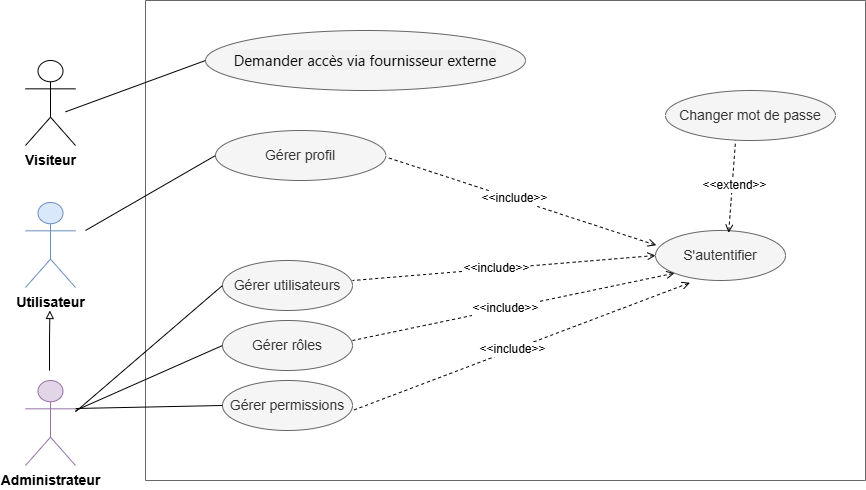
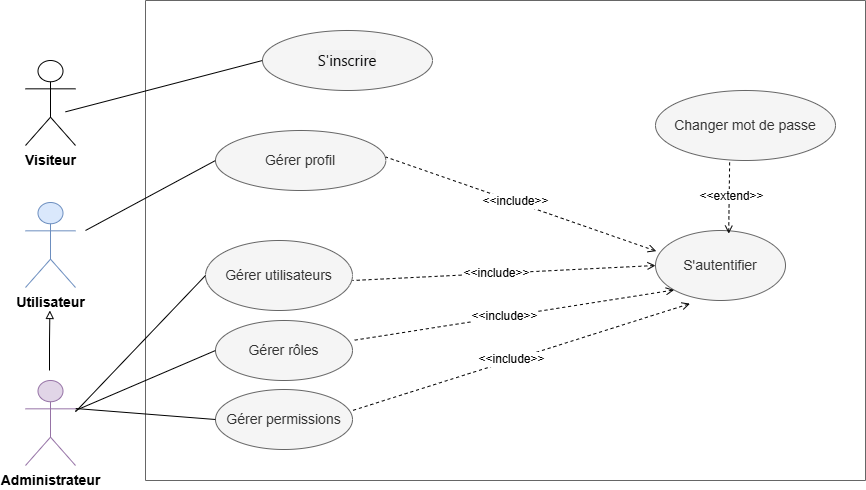
v eya

diff --git a/tex/chapitre3.tex b/tex/chapitre3.tex
@@ -80,15 +80,15 @@ La figure ci-dessous présente la description textuelle du cas d'utilisation « 
 \hline
 \textbf{Scénarios alternatifs} &
 \begin{itemize}[nosep,leftmargin=0.6cm,topsep=0pt,itemsep=1pt, label=$\bullet$]
-\item  L'utilisateur choisit l'onglet OAuth, lance l'authentification. Si le compte existe, il est authentifié sans mot de passe.
 \item  Si l'adresse e-mail ou le mot de passe est invalide, le système affiche une erreur. L'utilisateur corrige ses identifiants et retente la connexion.
+\item La période de verrouillage de 1 minute est écoulée. L'utilisateur retente la connexion. Le système constate que le déverrouillage est automatique, réactive le compte et autorise une nouvelle tentative.
 \end{itemize} \\
 \hline
 \textbf{Scénarios d'exception} &
 \begin{itemize}[nosep,leftmargin=0.6cm,topsep=0pt,itemsep=1pt, label=$\bullet$]
 \item  Après 3 tentatives échouées, le système affiche \texttt{401 Unauthorized} et le compte est verrouillé strictement pendant 1 minute. Aucune action de l'utilisateur ne permet de forcer l'entrée.
 \item  Le compte a été révoqué. Le système bloque impérativement la connexion.
-\item  La demande d'inscription OAuth est en EN ATTENTE. L'accès est bloqué tant qu'un administrateur n'a pas validé.
+\item  La demande d'inscription OAuth est en « en attente ». L'accès est bloqué tant qu'un administrateur n'a pas validé.
 \end{itemize} \\
 \hline
 \end{longtable}
@@ -99,7 +99,7 @@ La figure ci-dessous présente la description textuelle du cas d'utilisation « 
 \vspace{-0.3cm}
 
 
-\subsection{Description textuelle de cas d'utilisation « Changer mot de passe »}
+\subsection{Description textuelle du cas d'utilisation « Changer mot de passe »}
 La figure ci-dessous présente la description textuelle du cas d'utilisation « Changer le mot de passe » :
 
 \footnotesize
@@ -155,7 +155,7 @@ La figure ci-dessous présente la description textuelle du cas d'utilisation « 
 Dans cette partie, nous allons présenter les cas d'utilisation raffinés relatifs à la demande d'accès via fournisseur externe afin de comprendre les différentes étapes du processus d'inscription et d'authentification.
 
 \subsubsection{Raffinement de cas d'utilisation « S'inscrire »}
-Au cours de cette partie, nous allons analyser les sous-cas d'utilisation pour le processus d'authentification OAuth :
+Au cours de cette partie, nous allons analyser les sous-cas d'utilisation pour le processus l'inscription.
 
 \begin{figure}[htbp]
         \centering
@@ -164,7 +164,7 @@ Au cours de cette partie, nous allons analyser les sous-cas d'utilisation pour l
         \label{fig:oauth_refinement}
 \end{figure}
 
-\subsubsection{Description textuelle de cas d'utilisation « Soumettre demande d'inscription »}
+\subsubsection{Description textuelle du cas d'utilisation « Demander inscription »}
 
 \footnotesize
 \renewcommand{\arraystretch}{0.95}
@@ -184,15 +184,18 @@ Au cours de cette partie, nous allons analyser les sous-cas d'utilisation pour l
 \hline
 \textbf{Préconditions} & Le visiteur n'a pas de compte existant dans le système et se trouve sur la page d'authentification. \\
 \hline
-\textbf{Postconditions} & La demande d'inscription est créée (\textbf{EN\_ATTENTE}), ou le visiteur est connecté s'il possède déjà un accès. \\
+\textbf{Postconditions} & La demande d'inscription est créée (« en attente »), ou le visiteur est connecté s'il possède déjà un accès. \\
 \hline
 \textbf{Scénario nominal} &
 \begin{minipage}[t]{\linewidth}\raggedright
 \begin{enumerate}[label=\arabic*., leftmargin=0.6cm, nosep, itemsep=1pt]
-\item Le visiteur choisit son rôle sur la page de connexion, puis sélectionne un fournisseur externe (Google/GitHub).
+\item Le système affiche le formulaire de connexion avec les onglets \textit{Connexion} et \textit{Inscription OAuth}.
+\item L'utilisateur choisit l'onglet \textit{Inscription OAuth}.
+\item Le visiteur choisit son rôle sur la page de connexion.
+\item Le visiteur sélectionne un fournisseur externe (Google/GitHub).
 \item Le visiteur est redirigé vers le fournisseur pour s'authentifier et autoriser l'accès à son profil.
 \item De retour sur l'application, le système réceptionne les données OAuth et vérifie l'inexistence d'un compte actif.
-\item Le système crée la demande d'inscription avec le statut \textit{EN ATTENTE}.
+\item Le système crée la demande d'inscription avec le statut \textit{en attente}.
 \item Le système notifie l'équipe d'administration (via e-mail et notification interne).
 \item Le système confirme au visiteur par e-mail que la demande est en cours d'examen et affiche l'interface d'attente.
 \end{enumerate}
@@ -216,61 +219,6 @@ Au cours de cette partie, nous allons analyser les sous-cas d'utilisation pour l
 }
 \normalsize
 \vspace{-0.3cm}
-
-
-\subsubsection{Description textuelle de cas d'utilisation « Valider demande »}
-
-\footnotesize
-\renewcommand{\arraystretch}{0.95}
-\begin{longtable}{|P{3.5cm}|P{10.5cm}|}
-\hline
-\endfirsthead
-\hline
-\endhead
-\hline
-\endfoot
-\hline
-\endlastfoot
-\textbf{Nom du cas d'utilisation} & Valider demande \\
-\hline
-\textbf{Acteurs} & Administrateur \\
-\hline
-\textbf{Préconditions} & L'administrateur est authentifié et possède la permission de traiter les demandes d'inscription \\
-\hline
-\textbf{Postconditions} & Le compte utilisateur est créé et activé, la demande est marquée \textit{APPROUVEE}, et l'utilisateur est notifié \\
-\hline
-\textbf{Scénario principal} &
-\begin{minipage}[t]{\linewidth}\raggedright
-\begin{enumerate}[label=\arabic*., leftmargin=0.6cm, nosep, itemsep=1pt]
-\item L'administrateur accède au module de gestion des demandes d'inscription.
-\item Le système affiche la liste des demandes en attente.
-\item L'administrateur sélectionne une demande à traiter.
-\item Le système affiche les informations du demandeur récupérées via OAuth.
-\item L'administrateur clique sur « Approuver ».
-\item Le système crée le compte utilisateur à partir des informations de la demande.
-\item Le système attribue le rôle correspondant à l'utilisateur.
-\item Le système marque la demande comme \textit{APPROUVEE}.
-\item Le système envoie un e-mail de confirmation à l'utilisateur.
-\item Le système affiche un message de succès à l'administrateur.
-\end{enumerate}
-\end{minipage} \\
-\hline
-\textbf{Scénarios alternatifs} &
-\begin{itemize}[nosep,leftmargin=0.6cm,topsep=0pt,itemsep=1pt, label=$\bullet$]
-\item  L'administrateur choisit de refuser l'accès. Il saisit un motif de refus qui remplace l'approbation, la demande est alors rejetée.
-\item  Le système détecte qu'il manque un champ essentiel. L'administrateur saisit l'information manquante et valide à nouveau la demande.
-\end{itemize} \\
-\hline
-\textbf{Scénarios d'exception} &
-\begin{itemize}[nosep,leftmargin=0.6cm,topsep=0pt,itemsep=1pt, label=$\bullet$]
-\item  L'e-mail de la demande est déjà attribué à un compte actif dans le système. L'application bloque automatiquement la conversion pour cause d'unicité.
-\item  Une autre session a déjà statué sur cette demande, le clic de validation échoue définitivement.
-\end{itemize} \\
-\hline
-\end{longtable}
-\captionof{table}{Description textuelle « Valider demande »} 
-\normalsize
-
 
 \subsection{Analyse de la fonctionnalité « Gérer utilisateurs »}
 Dans cette partie, nous allons présenter les cas d'utilisation relatifs à la gestion des utilisateurs afin de comprendre les principales fonctionnalités du système, ce qui permet d'avoir une vue globale des interactions.
@@ -388,14 +336,14 @@ Au cours de cette partie, nous allons analyser chaque cas d'utilisation raffiné
 \hline
 \textbf{Acteurs} & Administrateur \\
 \hline
-\textbf{Préconditions} & L'administrateur est authentifié, possède la permission requise, et le compte visé est Actif. \\
+\textbf{Préconditions} & L'administrateur est authentifié, possède la permission requise, et le compte visé est actif. \\
 \hline
 \textbf{Postconditions} & Le compte devient inactif et l'utilisateur en est notifié par e-mail. \\
 \hline
 \textbf{Scénario nominal} &
 \begin{minipage}[t]{\linewidth}\raggedright
 \begin{enumerate}[label=\arabic*., leftmargin=0.6cm, nosep, itemsep=1pt]
-    \item L'administrateur sélectionne un compte Actif dans la liste.
+    \item L'administrateur sélectionne un compte actif dans la liste.
     \item Il clique sur l'action « Désactiver ».
     \item Le système vérifie si l'utilisateur possède des tickets actifs (aucun trouvé).
     \item Le système affiche une confirmation simple.
@@ -407,7 +355,7 @@ Au cours de cette partie, nous allons analyser chaque cas d'utilisation raffiné
 \textbf{Scénarios alternatifs} &
 \begin{itemize}[nosep,leftmargin=0.6cm,topsep=0pt,itemsep=1pt, label=$\bullet$]
 \item  L'utilisateur ciblé possède des tickets actifs. Le système ouvre une modale de réassignation. L'administrateur répartit les tickets, puis valide, permettant à la désactivation d'aboutir.
-\item  L'administrateur décide finalement de fermer la fenêtre modale (Annuler). L'opération s'interrompt proprement, le compte reste Actif.
+\item  L'administrateur décide finalement de fermer la fenêtre modale (Annuler). L'opération s'interrompt proprement, le compte reste actif.
 \end{itemize} \\
 \hline
 
@@ -462,6 +410,59 @@ Au cours de cette partie, nous allons analyser chaque cas d'utilisation raffiné
 \hline
 \end{longtable}
 \captionof{table}{Description textuelle « Modifier le Profil »} 
+\normalsize
+\vspace{-0.3cm}
+\subsubsection{Description textuelle de cas d'utilisation « Valider demande »}
+
+\footnotesize
+\renewcommand{\arraystretch}{0.95}
+\begin{longtable}{|P{3.5cm}|P{10.5cm}|}
+\hline
+\endfirsthead
+\hline
+\endhead
+\hline
+\endfoot
+\hline
+\endlastfoot
+\textbf{Nom du cas d'utilisation} & Valider demande \\
+\hline
+\textbf{Acteurs} & Administrateur \\
+\hline
+\textbf{Préconditions} & L'administrateur est authentifié et possède la permission de traiter les demandes d'inscription \\
+\hline
+\textbf{Postconditions} & Le compte utilisateur est créé et activé, la demande est marquée \textit{approuvée}, et l'utilisateur est notifié \\
+\hline
+\textbf{Scénario principal} &
+\begin{minipage}[t]{\linewidth}\raggedright
+\begin{enumerate}[label=\arabic*., leftmargin=0.6cm, nosep, itemsep=1pt]
+\item L'administrateur accède au module de gestion des demandes d'inscription.
+\item Le système affiche la liste des demandes en attente.
+\item L'administrateur sélectionne une demande à traiter.
+\item Le système affiche les informations du demandeur récupérées via OAuth.
+\item L'administrateur clique sur « Approuver ».
+\item Le système crée le compte utilisateur à partir des informations de la demande.
+\item Le système attribue le rôle correspondant à l'utilisateur.
+\item Le système marque la demande comme « approuvée ».
+\item Le système envoie un e-mail de confirmation à l'utilisateur.
+\item Le système affiche un message de succès à l'administrateur.
+\end{enumerate}
+\end{minipage} \\
+\hline
+\textbf{Scénarios alternatifs} &
+\begin{itemize}[nosep,leftmargin=0.6cm,topsep=0pt,itemsep=1pt, label=$\bullet$]
+\item  L'administrateur choisit de refuser l'accès. Il saisit un motif de refus qui remplace l'approbation, la demande est alors rejetée.
+\item  Le système détecte qu'il manque un champ essentiel. L'administrateur saisit l'information manquante et valide à nouveau la demande.
+\end{itemize} \\
+\hline
+\textbf{Scénarios d'exception} &
+\begin{itemize}[nosep,leftmargin=0.6cm,topsep=0pt,itemsep=1pt, label=$\bullet$]
+\item  L'e-mail de la demande est déjà attribué à un compte actif dans le système. L'application bloque automatiquement la conversion pour cause d'unicité.
+\item  Une autre session a déjà statué sur cette demande, le clic de validation échoue définitivement.
+\end{itemize} \\
+\hline
+\end{longtable}
+\captionof{table}{Description textuelle « Valider demande »} 
 \normalsize
 \vspace{-0.3cm}
 
@@ -1187,8 +1188,8 @@ d'un administrateur. Le cas suivant a été couvert :
 
 \begin{itemize}[label=$\bullet$, nosep, itemsep=2pt]
   \item L'administrateur tente de désactiver un utilisateur actif
-    disposant de \textbf{9 tickets actifs} (statuts \texttt{OUVERT},
-    \texttt{EN\_COURS} ou \texttt{EN\_REVUE}) : le système affiche le
+    disposant de \textbf{9 tickets actifs} (statuts « ouverts »,
+    « en cours » ou « en revue ») : le système affiche le
     modal de réassignation présentant la liste des développeurs
     disponibles \textbf{triés par charge de travail croissante}.
     L'administrateur procède à la réassignation de chaque ticket, puis

diff --git a/tex/chapitre4.tex b/tex/chapitre4.tex
@@ -197,7 +197,7 @@ Pour Chef de projet : le client doit être associé à au moins un de ses projet
 \textbf{Préconditions} & L'utilisateur est authentifié.\newline
 L'utilisateur possède la permission de désactiver les clients.\newline
 Liste des clients affichée.\newline
-Le client à désactiver doit être actuellement Actif. \\
+Le client à désactiver doit être actuellement actif. \\
 \hline
 \textbf{Postconditions} & Le compte client est désactivé. \\
 \hline
@@ -318,7 +318,7 @@ L'utilisateur possède la permission de créer des contrats.\newline
 La liste des contrats est accessible. \\
 \hline
 \textbf{Postconditions} &
-Le contrat est enregistré avec le statut ACTIF et une référence générée automatiquement.\newline
+Le contrat est enregistré avec le statut « actif » et une référence générée automatiquement.\newline
 Le contrat est visible dans la liste des contrats et lié au client sélectionné. \\
 \hline
 \textbf{Scénario nominal} &
@@ -393,8 +393,8 @@ Le motif d'archivage est enregistré et associé au contrat. \\
 \item L'administrateur sélectionne plusieurs contrats expirés et clique sur « Archiver la sélection » le système archive tous les contrats éligibles et affiche le nombre de contrats archivés avec succès.
 \item Le motif saisi contient moins de 10 caractères le bouton de confirmation reste désactivé, l'administrateur complète le motif et \textbf{reprend à l'étape 4}.
 \item Le système signale que le contrat est toujours actif l'administrateur revient à la liste et sélectionne un contrat expiré.
-\item Le système indique que le projet associé est en statut EN MAINTENANCE l'administrateur clôture d'abord le projet, puis \textbf{reprend à l'étape 1}.
-\item Le système détecte des tickets en statut OUVERT, EN COURS ou EN REVUE liés au contrat l'administrateur résout ces tickets, puis \textbf{reprend à l'étape 1}.
+\item Le système indique que le projet associé est en statut de maintenance l'administrateur clôture d'abord le projet, puis \textbf{reprend à l'étape 1}.
+\item Le système détecte des tickets en statut « ouvert », « en cours » ou « en revue » liés au contrat l'administrateur résout ces tickets, puis \textbf{reprend à l'étape 1}.
 \end{itemize} \\
 \hline
 \end{longtable}
@@ -544,7 +544,7 @@ L'utilisateur est authentifié.\newline
 Le contrat est actif et appartient au client. \\
 \hline
 \textbf{Postconditions} &
-La demande de résiliation est enregistrée et le contrat passe au statut \texttt{RESILIATION\_EN\_ATTENTE}.\newline
+La demande de résiliation est enregistrée et le contrat passe au statut « résiliation en attente ».\newline
 L'administrateur est notifié par e-mail et notification interne. \\
 \hline
 \textbf{Scénario nominal} &
@@ -563,7 +563,7 @@ L'administrateur est notifié par e-mail et notification interne. \\
 \textbf{Scénarios alternatifs} &
 \begin{itemize}[nosep,leftmargin=0.8cm,topsep=0pt,itemsep=2pt, label=$\bullet$]
 \item Le motif saisi contient moins de 10 caractères le bouton de confirmation reste désactivé, le client complète le motif et \textbf{reprend à l'étape 4}.
-\item Le bouton « Demander la résiliation » est masqué pour les contrats non actifs le client revient à la liste et sélectionne un contrat actif.
+\item Le bouton « Demander la résiliation » est masqué pour les contrats non actifs ; le client revient à la liste et sélectionne un contrat actif.
 \end{itemize} \\
 \hline
 \end{longtable}
@@ -862,10 +862,10 @@ Les tests End-to-End simulent les parcours utilisateurs complets dans un navigat
 \noindent Cette suite Playwright valide la robustesse du module de gestion des contrats :
 
 \begin{itemize}[label=$\bullet$, nosep, itemsep=2pt]
-  \item \textbf{Création et Suivi (Admin/Client)} : L'administrateur crée un contrat via un formulaire multi-étapes. Le système calcule automatiquement le montant TTC, génère la référence unique et met à jour le statut à \texttt{ACTIF}. Le client peut ensuite consulter son contrat et vérifier les alertes d'expiration.
+  \item \textbf{Création et Suivi (Admin/Client)} : L'administrateur crée un contrat via un formulaire multi-étapes. Le système calcule automatiquement le montant TTC, génère la référence unique et met à jour le statut à « actif ». Le client peut ensuite consulter son contrat et vérifier les alertes d'expiration.
   \item \textbf{Sécurité et Anti-Doublon} : Validation de la logique de détection des doublons par hashage de fichier. Le système bloque l'upload d'un document PDF déjà associé à un autre projet actif.
   \item \textbf{Automatisation de Résiliation} : Simulation d'une résiliation par l'administrateur. Le test vérifie la mise à jour du statut et la \textbf{fermeture en cascade} automatique de tous les tickets de maintenance ouverts sur ce contrat.
-  \item \textbf{Workflow de Demande Client} : Le client soumet une demande de résiliation depuis son espace. Le test valide la transition vers l'état \texttt{RESILIATION\_EN\_ATTENTE} et la notification de l'administrateur.
+  \item \textbf{Workflow de Demande Client} : Le client soumet une demande de résiliation depuis son espace. Le test valide la transition vers l'état « résiliation en attente » et la notification de l'administrateur.
 \end{itemize}
 
 \begin{figure}[H]
@@ -883,7 +883,7 @@ Les tests End-to-End simulent les parcours utilisateurs complets dans un navigat
 
 \begin{itemize}[label=$\bullet$, nosep, itemsep=2pt]
   \item \textbf{Onboarding avec Projets Livrés} : Validation de la création simultanée d'un compte client et de ses projets déjà finalisés. Le test confirme l'affectation automatique de l'équipe (Chef de projet et membres) et la mise à jour de leurs statistiques de performance (incrémentation des projets terminés).
-  \item \textbf{Intégrité et Cascade RH} : Vérification des règles métier interdisant la saisie de projets livrés avec des dates futures, et validation du statut automatique des membres (\texttt{TERMINE}) pour ces projets.
+  \item \textbf{Intégrité et Cascade RH} : Vérification des règles métier interdisant la saisie de projets livrés avec des dates futures, et validation du statut automatique des membres (« terminés ») pour ces projets.
 \end{itemize}
 
 \begin{figure}[H]

diff --git a/tex/chapitre5.tex b/tex/chapitre5.tex
@@ -373,7 +373,7 @@ les scenario d'exception et alternatif corresspond bien aux ce qui est ? \subsub
 \begin{minipage}[t]{\linewidth}\raggedright
 \begin{itemize}[nosep,leftmargin=0.6cm,topsep=0pt,itemsep=2pt,label={$\bullet$}]
     \item Le système détecte des droits insuffisants. L'opération est rejetée et le cas d'utilisation est interrompu.
-    \item Le système détecte que la demande est finalisée (\texttt{CONVERTIE} ou \texttt{REJETEE}). La modification est interdite, une erreur est retournée et le cas d'utilisation s'interrompt.
+    \item Le système détecte que la demande est finalisée (« convertie » ou « rejetée »). La modification est interdite, une erreur est retournée et le cas d'utilisation s'interrompt.
 \end{itemize}
 \end{minipage} \\
 \hline
@@ -440,7 +440,7 @@ Au cours de cette partie, nous allons analyser chaque cas d'utilisation raffiné
 \textbf{Scénarios d'exception} &
 \begin{minipage}[t]{\linewidth}\raggedright
 \begin{itemize}[nosep, leftmargin=0.6cm, topsep=0pt, itemsep=2pt, label={$\bullet$}]
-\item Le système détecte que le ticket est dans un état final (ex: \texttt{RESOLU} ou \texttt{FERME}). Le chronomètre refuse de se lancer, affiche un message d'interdiction au développeur et le processus est interrompu.
+\item Le système détecte que le ticket est dans un état final (ex: « résolu » ou « fermé »). Le chronomètre refuse de se lancer, affiche un message d'interdiction au développeur et le processus est interrompu.
 \item Le système détecte que le développeur n'est plus le responsable assigné (ex: réassignation forcée). L'accès est instantanément refusé et le processus s'interrompt avec erreur.
 \end{itemize}
 \end{minipage} \\
@@ -1113,7 +1113,7 @@ L’architecture de cette version repose sur une séparation claire des responsa
 
 \subsection{Interface de gestion des demandes}
 L’interface de gestion des demandes a été enrichie afin de permettre au client de consulter ses demandes, de suivre leur statut et de visualiser les indicateurs d’intelligence artificielle associés à chaque demande.
-\par Le tableau Kanban des demandes permet une lecture rapide de l’avancement : \textit{EN\_ATTENTE}, \textit{INFOS\_REQUISES}, \textit{VALIDEE}, \textit{REJETEE} et \textit{CONVERTIE}. Cette représentation facilite la supervision du cycle de vie des demandes.
+\par Le tableau Kanban des demandes permet une lecture rapide de l’avancement : \textit{en attente}, \textit{informations requises}, \textit{validée}, \textit{rejetée} et \textit{convertie}. Cette représentation facilite la supervision du cycle de vie des demandes.
 
 \subsection{Interface de gestion des tickets}
 L’interface des tickets constitue le centre opérationnel du sprint. Elle permet :
@@ -1128,13 +1128,13 @@ L’interface des tickets constitue le centre opérationnel du sprint. Elle perm
 
 \subsection{Fonctionnement du tableau Kanban}
 Le tableau Kanban a été conçu comme un outil de pilotage visuel du flux de traitement des tickets.
-\par Les tickets sont répartis dans cinq colonnes correspondant aux statuts \textbf{OUVERT}, \textbf{EN\_COURS}, \textbf{EN\_REVUE}, \textbf{RESOLU} et \textbf{FERME}. Les cartes sont triées en priorité décroissante, puis selon leur ancienneté.
-\par Le déplacement d’un ticket entre deux colonnes n’est possible que si la transition est autorisée par le workflow métier. Par exemple, un ticket ne peut pas passer de \textbf{OUVERT} à \textbf{EN\_COURS} sans démarrage effectif du chronomètre, et un passage en \textbf{RESOLU} exige une solution documentée.
+\par Les tickets sont répartis dans cinq colonnes correspondant aux statuts « ouvert », « en cours », « en revue », « résolu » et « fermé ». Les cartes sont triées en priorité décroissante, puis selon leur ancienneté.
+\par Le déplacement d’un ticket entre deux colonnes n’est possible que si la transition est autorisée par le workflow métier. Par exemple, un ticket ne peut pas passer de « ouvert » à « en cours » sans démarrage effectif du chronomètre, et un passage en « résolu » exige une solution documentée.
 \par Cette approche garantit la cohérence des données et évite les modifications arbitraires de statut.
 
 \subsection{Gestion du suivi du temps}
 Le suivi du temps repose sur la notion de session de travail associée à une assignation.
-\par Lorsqu’un développeur ouvre son ticket, le système peut démarrer automatiquement le chronomètre et faire évoluer le statut du ticket vers \textbf{EN\_COURS}. Le temps est ensuite cumulé au fil des sessions, en prenant en compte les pauses et les reprises.
+\par Lorsqu’un développeur ouvre son ticket, le système peut démarrer automatiquement le chronomètre et faire évoluer le statut du ticket vers « en cours ». Le temps est ensuite cumulé au fil des sessions, en prenant en compte les pauses et les reprises.
 \par Cette fonctionnalité permet de mesurer le temps effectif passé sur un ticket et de comparer ce temps avec les échéances SLA définies dans le contrat.
 
 \subsection{Gestion des SLA}
